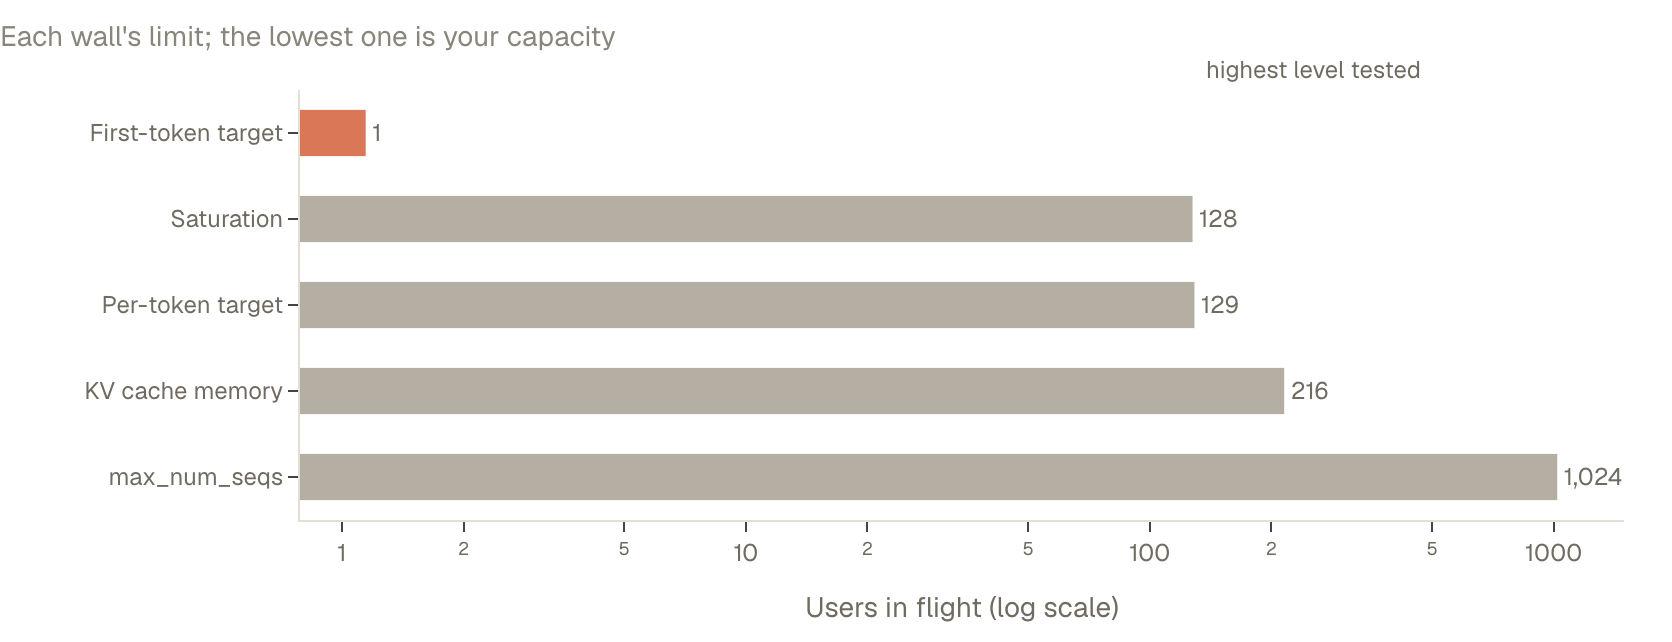
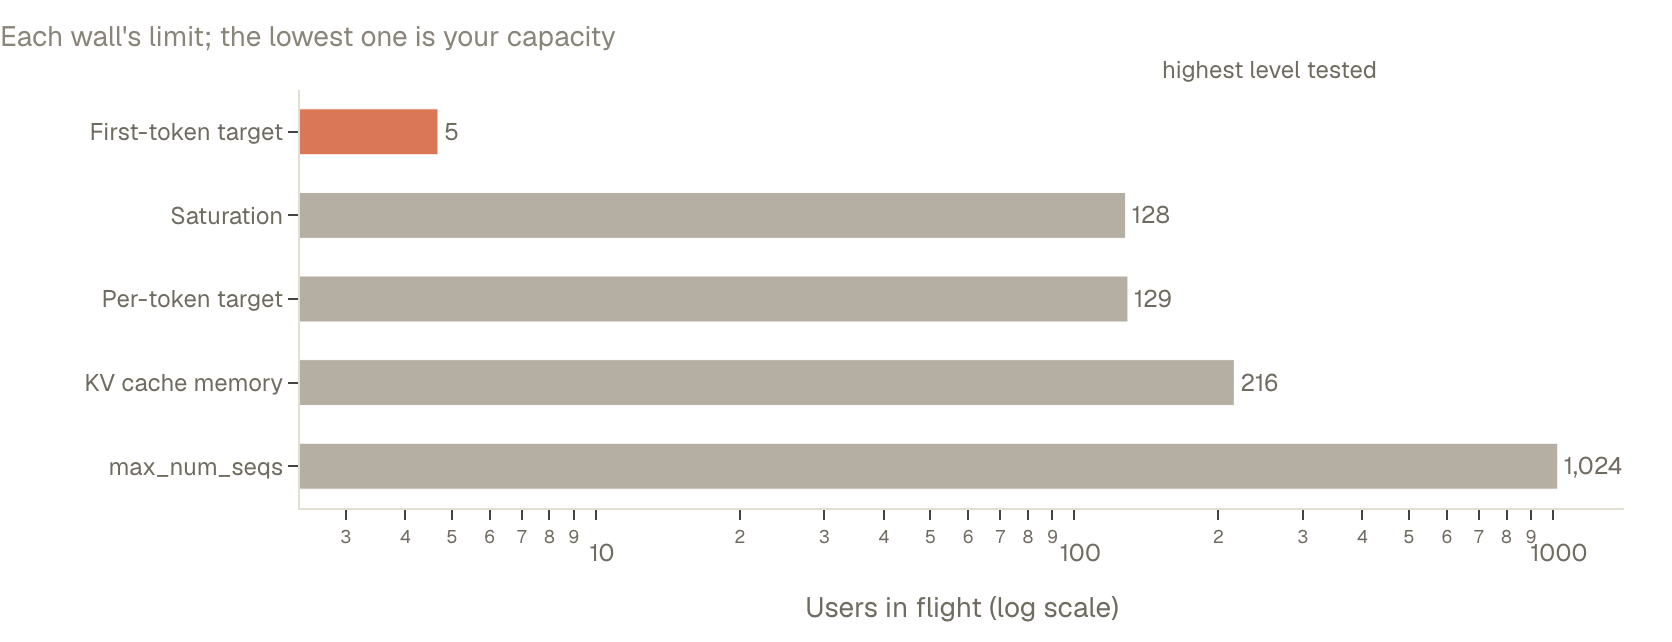
Latency wall never below the operating point; network-aware advice for spread and drift

diff --git a/src/kneebench/analysis/rules/walls.py b/src/kneebench/analysis/rules/walls.py
@@ -9,7 +9,14 @@ from kneebench.analysis.context import RunContext
 from kneebench.analysis.engine import Finding, bad, info, ok, rule, skip, warn
 from kneebench.analysis.rate import capacity_rps, rate_points, sustained_rps
 from kneebench.analysis.rules.concurrency import sweep
-from kneebench.analysis.sweep import first_crossing, operating_point, saturation
+from kneebench.analysis.sweep import (
+    Crossing,
+    SweepPoint,
+    first_crossing,
+    operating_point,
+    saturation,
+)
+from kneebench.domain import Slo
 from kneebench.phases.theory import ShapeTheory
 from kneebench.physics.floors import requests_that_fit
 
@@ -55,6 +62,22 @@ def final_length(ctx: RunContext, shape: ShapeTheory) -> tuple[int, bool]:
     return lengths[rank] + round(ctx.prompt_overhead_tokens or 0), True
 
 
+def _wall_crossings(pts: list[SweepPoint], slo: Slo) -> dict[str, Crossing]:
+    """Where each latency target is crossed, at or above the operating point.
+
+    A noisy tail can fail one low level while higher ones pass (note 25 section 6); the
+    wall is where load stops fitting, so it is never below the best load that met every target.
+    """
+    op = operating_point(pts, slo)
+    above = [p for p in pts if op is None or p.concurrency >= op.concurrency]
+    found = {}
+    for metric, target in (("tpot", slo.tpot_ms), ("ttft", slo.ttft_ms)):
+        cross = first_crossing(above, metric, target, slo.percentile)
+        if cross:
+            found[metric] = cross
+    return found
+
+
 def _effective_max_num_seqs(ctx: RunContext) -> tuple[int, bool]:
     s = settings.max_num_seqs(ctx)
     return s.value, s.is_default
@@ -89,14 +112,7 @@ def slo_wall(ctx: RunContext) -> Finding | None:
     slo = ctx.workload.slo
     if not pts or (slo.ttft_ms is None and slo.tpot_ms is None):
         return None
-    crossings = [
-        c
-        for c in (
-            first_crossing(pts, "tpot", slo.tpot_ms, slo.percentile),
-            first_crossing(pts, "ttft", slo.ttft_ms, slo.percentile),
-        )
-        if c
-    ]
+    crossings = list(_wall_crossings(pts, slo).values())
     data = {
         "pct_label": slo.percentile,
         "slo_ttft_ms": slo.ttft_ms,
@@ -127,10 +143,8 @@ def capacity(ctx: RunContext) -> dict[str, object] | None:
         return None
     slo = ctx.workload.slo
     walls: dict[str, float] = {}
-    for metric, target in (("tpot", slo.tpot_ms), ("ttft", slo.ttft_ms)):
-        cross = first_crossing(pts, metric, target, slo.percentile)
-        if cross:
-            walls[f"slo_{metric}"] = cross.concurrency
+    for metric, cross in _wall_crossings(pts, slo).items():
+        walls[f"slo_{metric}"] = cross.concurrency
     sat = saturation(pts)
     if sat:
         walls["saturation"] = float(sat.concurrency)

diff --git a/tests/rules/test_sweep_rules.py b/tests/rules/test_sweep_rules.py
@@ -231,3 +231,38 @@ def test_w08_plans_on_request_rate_with_failure_margin() -> None:
     assert f.data["planned_rps"] == pytest.approx(2.6 * 0.8)
     assert f.data["failure"][0] == {"replicas": 2, "per_replica_rps": pytest.approx(2.6 * 0.4)}
     assert run_rule("W08", _ctx(healthy_sweep())).data["planned_rps"] is None  # type: ignore[union-attr]
+
+
+def test_w03_wall_is_never_below_the_operating_point() -> None:
+    # A network blip fails the first-token tail at 2 users while 4 and 8 pass.
+    pts = (
+        sweep_point(1, 150, 6.0, seq=1, ttft_p99=300.0),
+        sweep_point(2, 290, 6.2, seq=2, ttft_p99=1100.0),
+        sweep_point(4, 560, 6.5, seq=3, ttft_p99=400.0),
+        sweep_point(8, 1000, 7.0, seq=4, ttft_p99=450.0),
+        sweep_point(16, 1800, 8.0, seq=5, ttft_p99=900.0),
+    )
+    f = run_rule("W03", ctx(points=(point(), *pts)))
+    assert f is not None and f.data["op"] == 8
+    assert 8 < f.data["walls"]["slo_ttft"] < 16
+
+
+def test_actions_follow_the_finding_case() -> None:
+    from kneebench.analysis.engine import Finding
+    from kneebench.content.render import TermTracker, make_env, render_finding
+    from kneebench.report.composer import common_vars
+
+    c = ctx(points=(point(),))
+    env = make_env(TermTracker())
+    data = {"cv": 0.35, "p50_ms": 6.5, "p99_ms": 16.0, "p99_over_p50": 2.5, "requests": 30,
+            "engine_p50_ms": 5.7, "engine_p99_ms": 5.7}  # fmt: skip
+    net = render_finding(
+        Finding("B04", Status.WARN, {**data, "case": "network"}), common_vars(c), env
+    )
+    gpu = render_finding(
+        Finding("B04", Status.WARN, {**data, "case": "server"}), common_vars(c), env
+    )
+    assert [a.title for a in net.actions] == ["Run kneebench closer to the server"]
+    assert [a.title for a in gpu.actions] == [
+        "Rerun at a quiet time and check the GPU for other work"
+    ]

diff --git a/src/kneebench/content/render.py b/src/kneebench/content/render.py
@@ -267,6 +267,7 @@ def render_finding(
         )
         for a in spec.get("actions", [])
         if status in a.get("when", [])
+        and ("case" not in a or finding.data.get("case") in a["case"])
     )
 
     url = label = None

diff --git a/CHANGELOG.md b/CHANGELOG.md
@@ -18,6 +18,10 @@ All notable changes to this project are documented here. The format follows
   start-to-end move of either run's repeated baseline count as noise, with 5% as the floor.
 
 ### Fixed (from the full live run)
+- The latency wall is found at or above the operating point, so a noisy tail at a low level
+  no longer reads "4 users comfortably, breaking at about 1".
+- B04 and B06 suggest moving kneebench closer to the server when the network caused the
+  spread, not checking the GPU; rule actions can now depend on the finding's case.
 - B06 and B04 compare the client's time per token with the server's own histogram: when the
   server held steady they say the network path changed, instead of blaming the GPU.
 - H04 trusts the server's output-token count over AIPerf's recount of long streamed answers,
